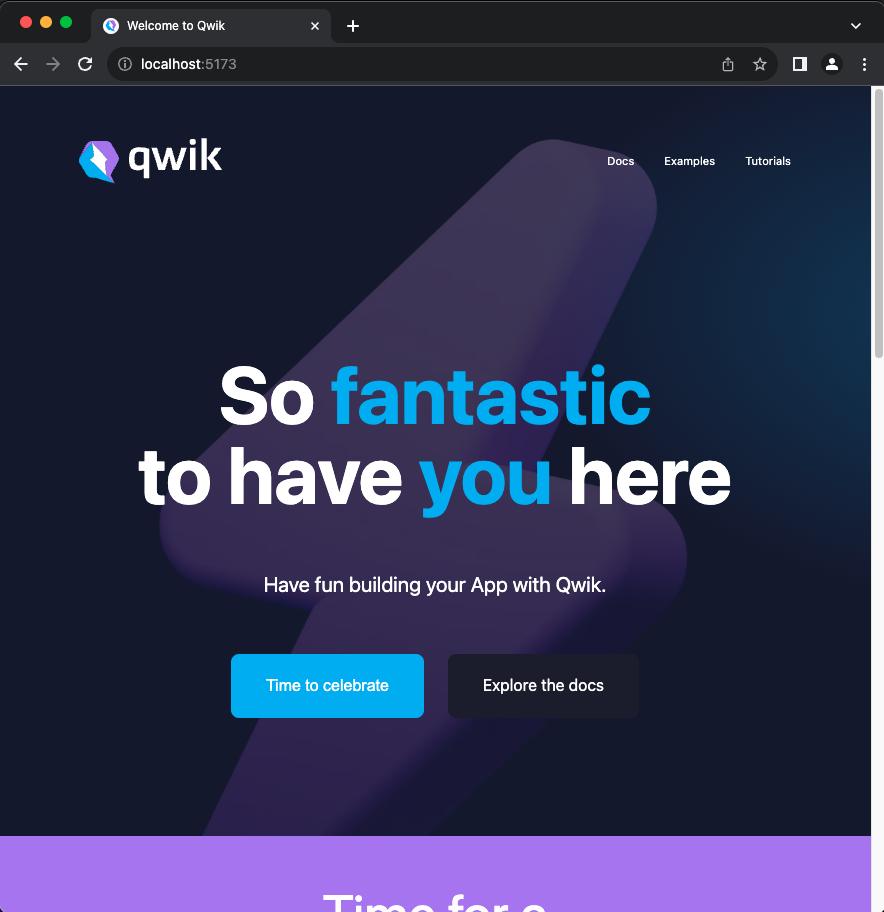
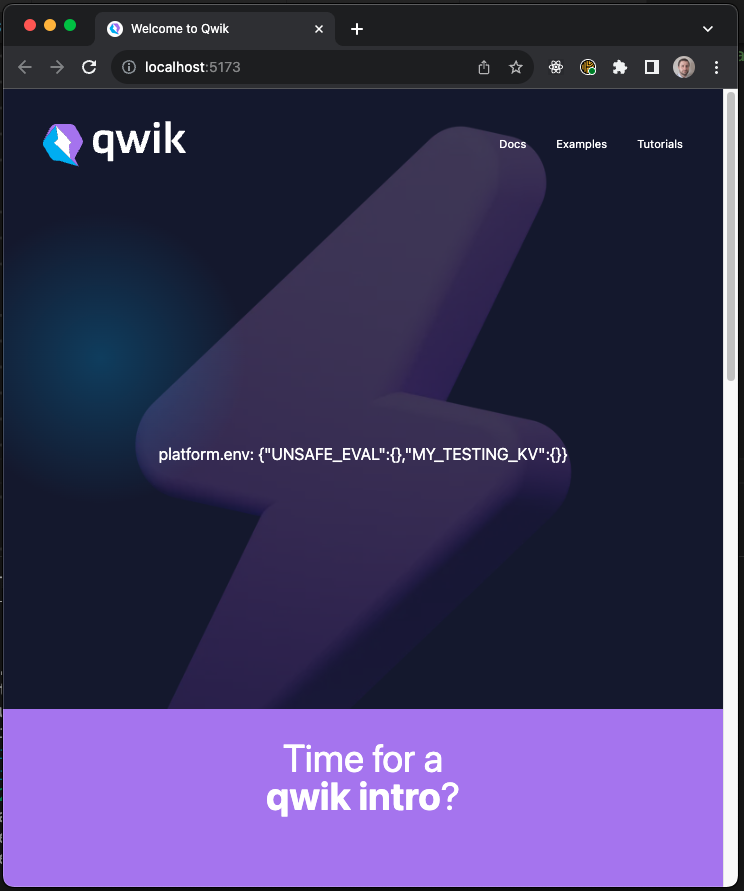
update README and path to qwik repo

diff --git a/workerd-vite-utils/src/index.ts b/workerd-vite-utils/src/index.ts
@@ -68,7 +68,7 @@ export function createWorkerdViteFunctions(opts: {
 		let moduleId = url.searchParams.get("moduleId").replace(/ /g, "+");
 		if(moduleId==='zod'){
 		  // temporary hack, we need to figure out node_modules resolution!
-		  moduleId = '/Users/dario/Repos/qwik/node_modules/.pnpm/zod@3.22.4/node_modules/zod/lib/index.mjs';
+		  moduleId = '/Users/dario/Repos/my-repos/qwik/node_modules/.pnpm/zod@3.22.4/node_modules/zod/lib/index.mjs';
 		}
 
 		console.log(

diff --git a/qwik-app/README.md b/qwik-app/README.md
@@ -1,6 +1,17 @@
 # To run the app
 
-Fork the following github repo branch: https://github.com/dario-piotrowicz/qwik/tree/workerd-ssr
+In `workerd-vite-utils/src/index.ts` replace the following line pointing to
+there you plan to for the qwik repo:
+
+```diff
+// temporary hack, we need to figure out node_modules resolution!
+-moduleId = '/Users/dario/Repos/my-repos/qwik/node_modules/.pnpm/zod@3.22.4/node_modules/zod/lib/index.mjs';qwik-city",
++moduleId = '<YOUR_QWIK_FORK_LOCATION>/node_modules/.pnpm/zod@3.22.4/node_modules/zod/lib/index.mjs';qwik-city",
+```
+
+Then build the `workerd-vite-utils` package with `pnpm build` and `pnpm build:types`
+
+Fork the following github repo branch: https://github.com/dario-piotrowicz/qwik/tree/workerd-ssr-with-bindings
 
 Update qwik package.json in the following way:
 
@@ -22,5 +33,8 @@ Here update the package.json in the following way:
 
 Run the application with `pnpm dev`
 
-You should see the standard (fully working qwik-city starting app):
+You should see the following fully working qwik-city starting app:
 ![app](./app.png)
+
+> ** Note **
+> Notice the `MY_TESTING_KV` present there, it is a Cloudflare binding obtained by Miniflare
